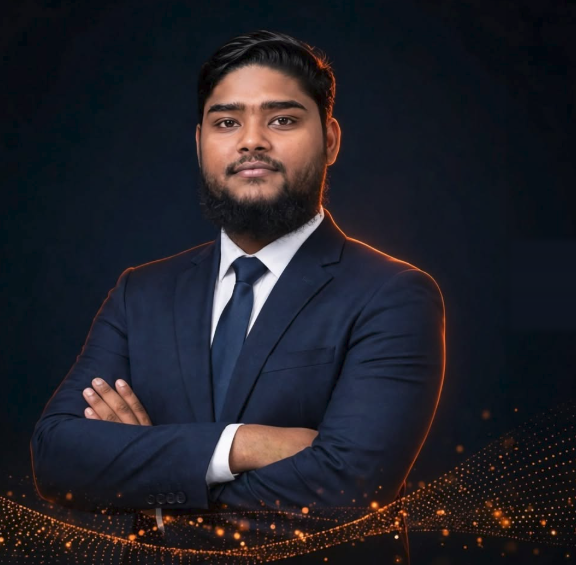
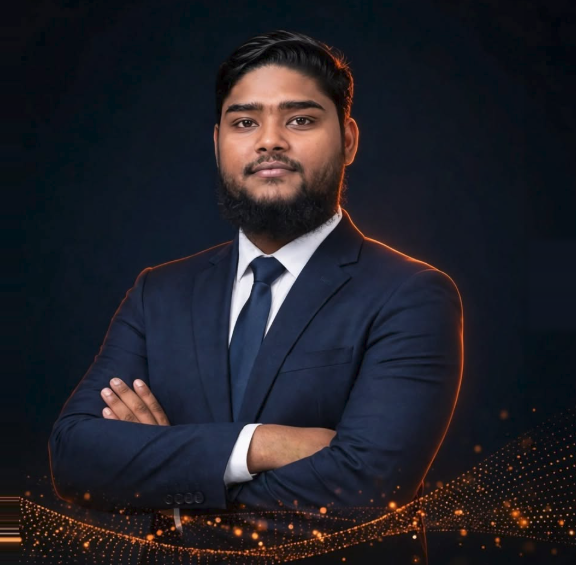
feat(hero): center portrait in halo circle and remove Available for Projects badge

Changed region(s): [[0.0, 0.0602, 1.0, 1.0], [0.6875, 0.6619, 0.7188, 0.692], [0.25, 0.8124, 0.2812, 0.8425]]

diff --git a/index.html b/index.html
@@ -379,12 +379,6 @@
             />
           </div>
 
-          <!-- Floating Executive Tech Status Badge -->
-          <div class="absolute -bottom-3 -left-2 sm:-left-4 z-30 px-3.5 sm:px-4 py-2 rounded-2xl bg-[#12222f]/90 backdrop-blur-md border border-white/10 shadow-2xl flex items-center gap-2.5">
-            <span class="w-2.5 h-2.5 rounded-full bg-emerald-400 animate-pulse"></span>
-            <span class="text-[11px] sm:text-xs font-semibold text-white tracking-wide font-montserrat">Available for Projects</span>
-          </div>
-
         </div>
 
       </div>

diff --git a/tests/test_hero_enhancements.py b/tests/test_hero_enhancements.py
@@ -16,10 +16,10 @@ def test_hero_markup():
     # 1. Verify Colorful Rounded Circle Stage and emran_cover_lead.png
     assert "emran_cover_lead.png" in content, "Cover lead image not found in index.html"
     assert "animate-float" in content, "Subtle floating animation missing"
-    assert "Available for Projects" in content, "Status badge missing"
+    assert "Available for Projects" not in content, "Available for Projects badge should be removed as requested"
     assert "rounded-full overflow-hidden" in content, "Circular overflow-hidden frame missing"
     assert "paint0_linear_halo" in content, "Colorful rounded halo ring SVG missing"
-    print("  ✓ 1. Hero portrait Colorful Rounded Circle Stage and verified cover asset verified")
+    print("  ✓ 1. Hero portrait Colorful Rounded Circle Stage verified with centered asset and badge removed")
 
     # 2. Verify mobile layout optimizations
     assert "flex flex-row items-center gap-3 sm:gap-5 mt-2" in content, "Responsive CTA row missing"
